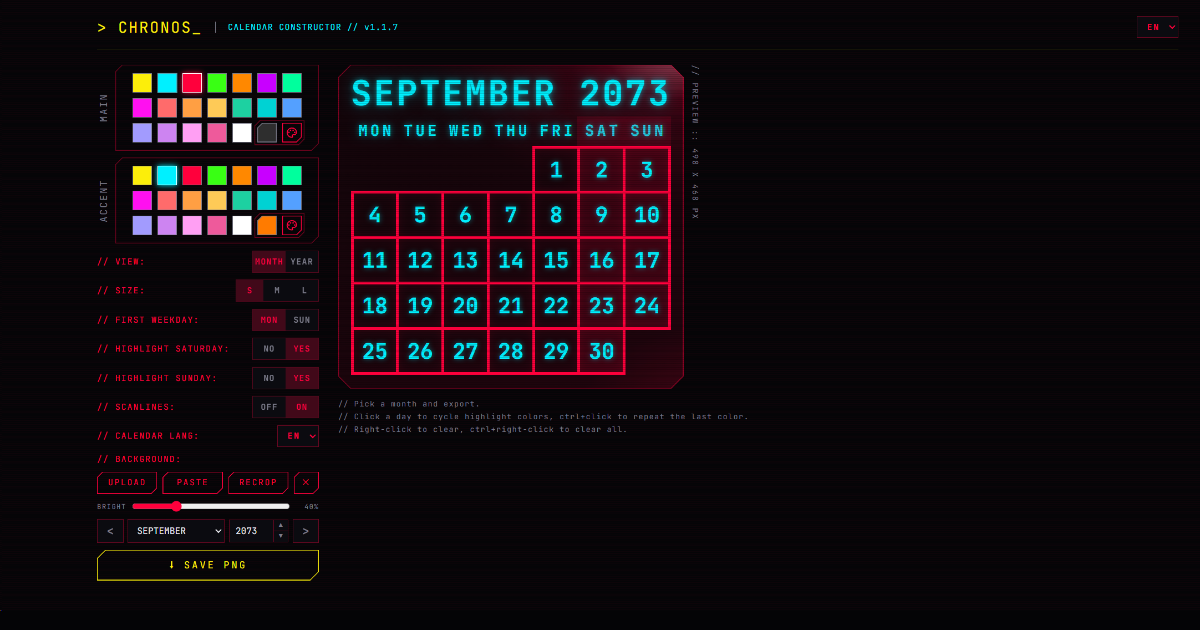
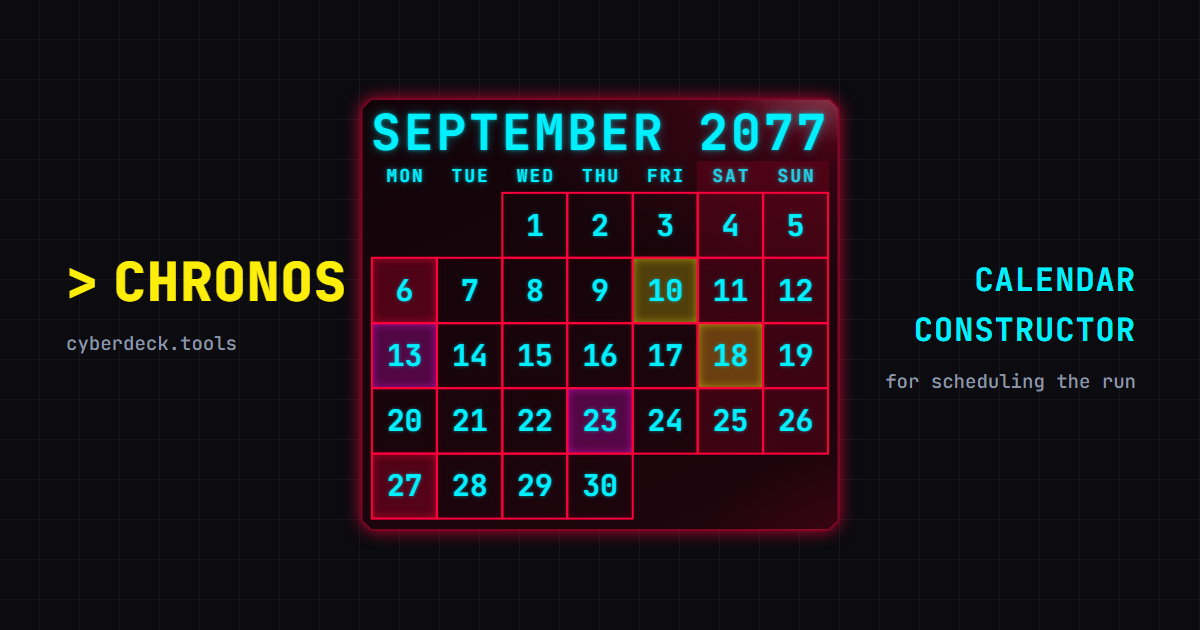
preview update

diff --git a/index.html b/index.html
@@ -1,4 +1,4 @@
-<!-- CHRONOS v1.3.4 -->
+<!-- CHRONOS v1.3.5 -->
 <!DOCTYPE html>
 <html lang="en">
 <head>
@@ -22,7 +22,7 @@
 <meta property="og:title" content="CHRONOS — Cyberpunk Monthly &amp; Yearly Calendar Constructor" />
 <meta property="og:description" content="Build a Cyberpunk 2077-styled monthly calendar or full-year poster in your browser and export it as a PNG. Perfect for TTRPG handouts." />
 <meta property="og:url" content="https://cyberdeck.tools/chronos-ui/" />
-<meta property="og:image" content="https://cyberdeck.tools/chronos-ui/chronos_thumbnail.png" />
+<meta property="og:image" content="https://cyberdeck.tools/chronos-ui/chronos_thumbnail.png?v=2" />
 <meta property="og:image:type" content="image/png" />
 <meta property="og:image:width" content="1200" />
 <meta property="og:image:height" content="630" />
@@ -30,7 +30,7 @@
 <meta name="twitter:card" content="summary_large_image" />
 <meta name="twitter:title" content="CHRONOS — Cyberpunk Monthly &amp; Yearly Calendar Constructor" />
 <meta name="twitter:description" content="Build a cyberpunk monthly or full-year calendar and export it as a PNG." />
-<meta name="twitter:image" content="https://cyberdeck.tools/chronos-ui/chronos_thumbnail.png" />
+<meta name="twitter:image" content="https://cyberdeck.tools/chronos-ui/chronos_thumbnail.png?v=2" />
 
 <script type="application/ld+json">
 {
@@ -44,7 +44,7 @@
   "operatingSystem": "Any (browser-based)",
   "browserRequirements": "Modern desktop browser",
   "url": "https://cyberdeck.tools/chronos-ui/",
-  "image": "https://raw.githubusercontent.com/CyberDelaai/chronos-ui/main/chronos_thumbnail.png",
+  "image": "https://raw.githubusercontent.com/CyberDelaai/chronos-ui/main/chronos_thumbnail.png?v=2",
   "keywords": "cyberpunk, calendar generator, monthly calendar, yearly calendar, year planner, cyberpunk 2077, shadowrun, ttrpg, game master tools, png export, netrunner",
   "author": {
     "@type": "Person",
@@ -1262,7 +1262,7 @@
         <a class="app-menu-item" href="https://cyberdeck.tools/eidolon-ui/">&gt; EIDOLON_</a>
       </nav>
     </div>
-    <div class="tag"><span id="tagWord" class="glitchable">CALENDAR CONSTRUCTOR</span><span id="tagMeta" class="tag-meta"> // v<span id="tagVersion">1.3.4</span></span></div>
+    <div class="tag"><span id="tagWord" class="glitchable">CALENDAR CONSTRUCTOR</span><span id="tagMeta" class="tag-meta"> // v<span id="tagVersion">1.3.5</span></span></div>
     <select class="lang-select" id="uiLangSel" aria-label="interface language"><option value="en">EN</option><option value="ru">RU</option><option value="fr">FR</option><option value="de">DE</option><option value="es">ES</option><option value="it">IT</option><option value="ja">JP</option><option value="zh">CN</option></select>
   </header>
 
@@ -3041,7 +3041,7 @@
     // Version lives in 3 spots: this const, the #tagVersion span above, and
     // the line-1 `<!-- CHRONOS v… -->` comment. Bump them all in sync with:
     //   python3 bump_version.py {x|y|z}
-    const VER = ' // v1.3.4';
+    const VER = ' // v1.3.5';
     const CHARS = '!@#$%&*<>{}[]/|01ABCDEFGHIJKLMNOPQRSTUVWXYZ';
     let commitCount = '';
 
